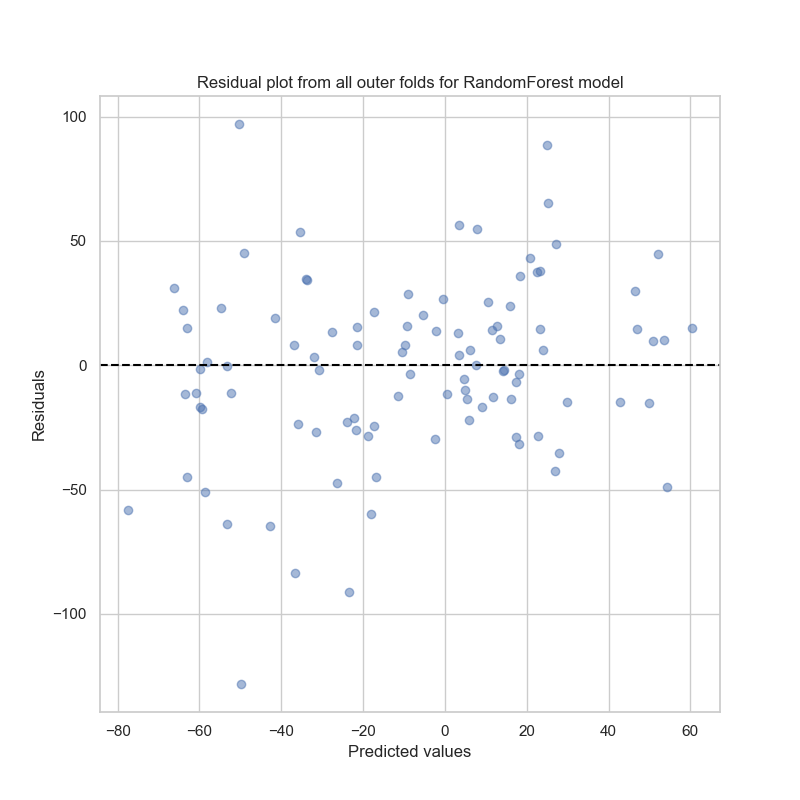
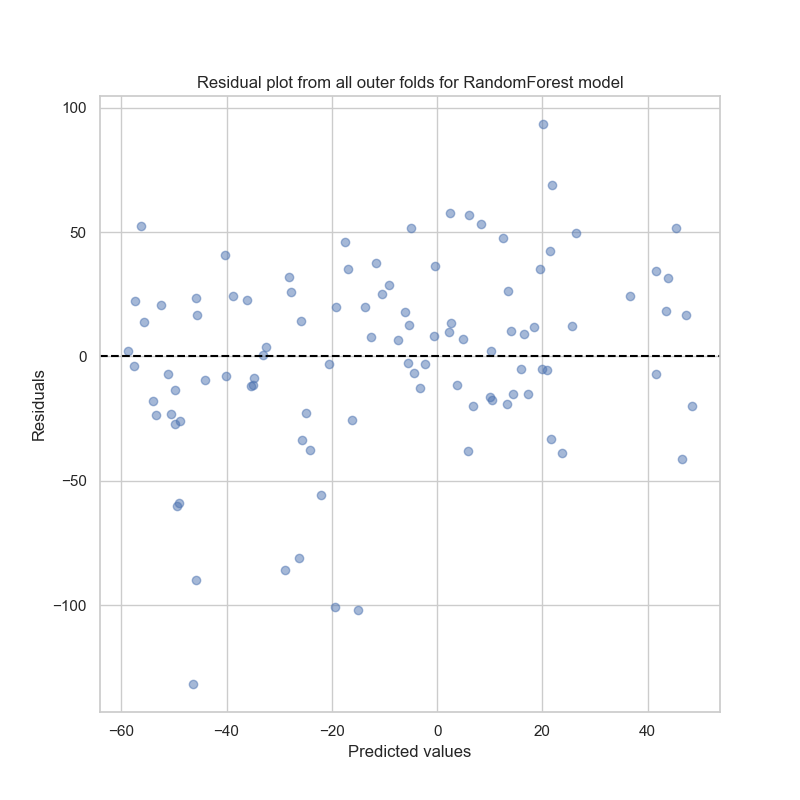
new test run

diff --git a/src/main.py b/src/main.py
@@ -39,17 +39,23 @@ def main():
                                 'r2': []})
 
     # Random Forest
-    n_estimators = [10, 50, 100, 200]
-    max_depth = [5, 10, 20, 50, 200]
+    n_estimators = [100, 200, 500]
+    max_depth = [None, 5, 10]
+    min_samples_split = [2, 4, 5, 6, 10]
+
     for n in n_estimators:
         for d in max_depth:
-            models['RandomForest'].append({'parameters': {'n_estimators': n, 'max_depth': d},
-                                           'model': RandomForestRegressor(n_estimators=n, max_depth=d),
-                                           'scores': [],
-                                            'r2': []})
+            for mss in min_samples_split:
+                models['RandomForest'].append({'parameters': {'n_estimators': n, 'max_depth': d, 'min_samples_split': mss},
+                                            'model': RandomForestRegressor(n_estimators=n,
+                                                                           max_depth=d,
+                                                                           max_features=int(np.sqrt(X.shape[1])),
+                                                                           min_samples_split=mss),
+                                            'scores': [],
+                                                'r2': []})
     # Elastic net
     alpha_values = np.logspace(0, 3, 13)
-    l1_ratio_values = np.linspace(0.001, 1, 15)
+    l1_ratio_values = np.linspace(0.001, 0.999, 15)
     for alpha in alpha_values:
         for l1_ratio in l1_ratio_values:
             models['ElasticNet'].append({'parameters': {'regressor_alpha': alpha, 'l1_ratio': l1_ratio},
